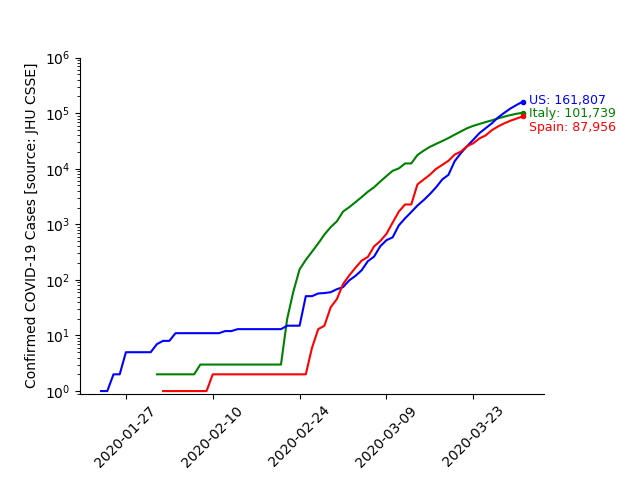
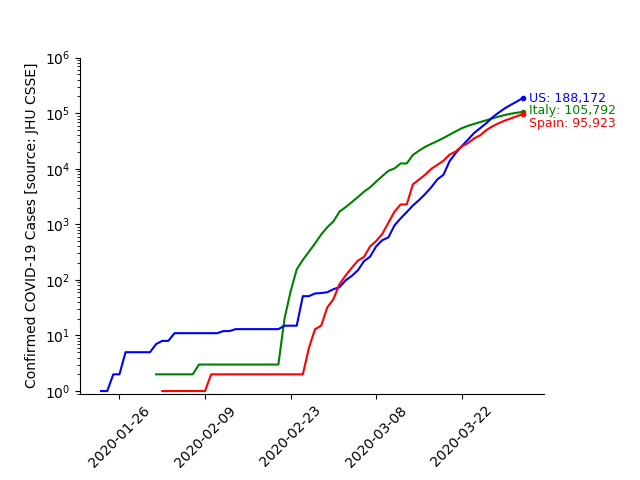
2020-03-31 updates

diff --git a/plot_cases.py b/plot_cases.py
@@ -40,15 +40,15 @@ fig, ax = plt.subplots()
 
 plt.semilogy(dates[np.where(cases_it>0)[0][0]:], cases_it[cases_it>0], 'g-')
 plt.semilogy(dates[-1], cases_it[-1], 'g.')
-ax.annotate('Italy: {:,}'.format(cases_it[-1]), (dates[-1]+dt.timedelta(days=1), 0.85*cases_it[-1]), color='green', fontsize=9)
+ax.annotate('Italy: {:,}'.format(cases_it[-1]), (dates[-1]+dt.timedelta(days=1), 0.90*cases_it[-1]), color='green', fontsize=9)
 
 plt.semilogy(dates[np.where(cases_us>0)[0][0]:], cases_us[cases_us>0], 'b-')
 plt.semilogy(dates[-1], cases_us[-1], 'b.')
-ax.annotate('US: {:,}'.format(cases_us[-1]), (dates[-1]+dt.timedelta(days=1), 0.90*cases_us[-1]), color='blue', fontsize=9)
+ax.annotate('US: {:,}'.format(cases_us[-1]), (dates[-1]+dt.timedelta(days=1), 0.85*cases_us[-1]), color='blue', fontsize=9)
 
 plt.semilogy(dates[np.where(cases_es>0)[0][0]:], cases_es[cases_es>0], 'r-')
 plt.semilogy(dates[-1], cases_es[-1], 'r.')
-ax.annotate('Spain: {:,}'.format(cases_es[-1]), (dates[-1]+dt.timedelta(days=1), 0.55*cases_es[-1]), color='red', fontsize=9)
+ax.annotate('Spain: {:,}'.format(cases_es[-1]), (dates[-1]+dt.timedelta(days=1), 0.60*cases_es[-1]), color='red', fontsize=9)
 
 #plt.semilogy(dates[np.where(cases_sk>0)[0][0]:], cases_sk[cases_sk>0], '.-', label='South Korea')
 #plt.semilogy(dates[np.where(cases_jp>0)[0][0]:], cases_jp[cases_jp>0], '.-', label='Japan')
